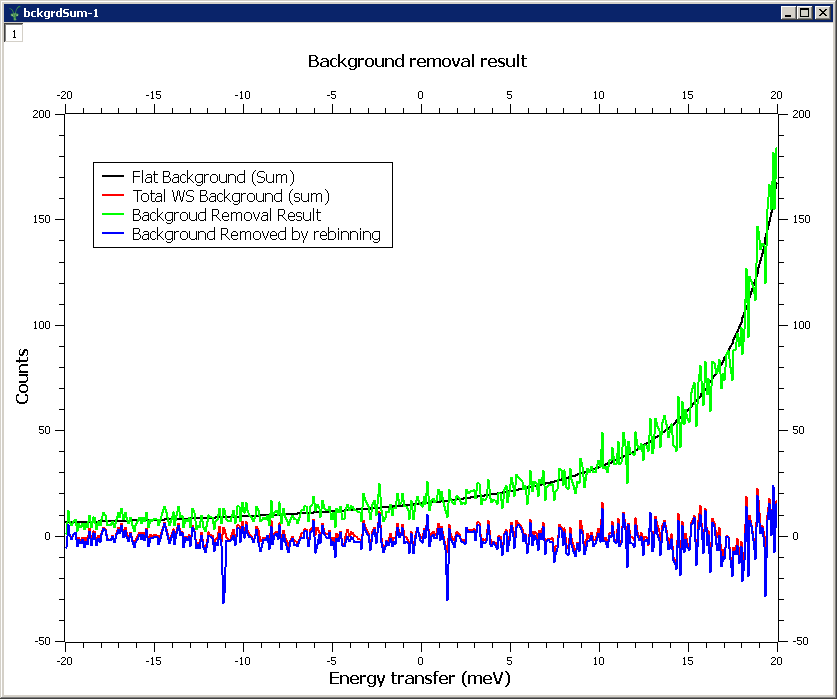
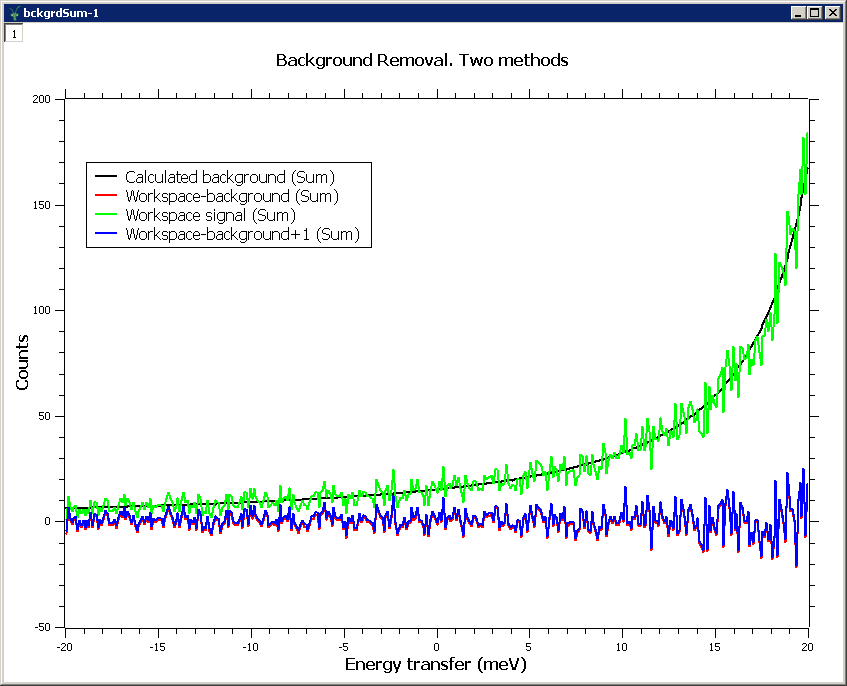
refs #10384 fixed multithreading mode

diff --git a/Code/Mantid/Framework/Algorithms/src/BackgroundHelper.cpp b/Code/Mantid/Framework/Algorithms/src/BackgroundHelper.cpp
@@ -68,6 +68,7 @@ namespace Mantid
     */
     void BackgroundHelper::removeBackground(int nHist,const MantidVec &XValues,MantidVec &y_data,MantidVec &e_data)const
     {
+
       double dtBg,ErrSq,IBg;
       if(m_singleValueBackground)
       {
@@ -92,12 +93,13 @@ namespace Mantid
         double twoTheta = m_wkWS->detectorTwoTheta(detector);
         double L2 = detector->getDistance(*m_Sample);
         double delta(std::numeric_limits<double>::quiet_NaN());
-        //
-        m_WSUnit->initialize(m_L1, L2,twoTheta, m_Emode, m_Efix,delta);
-        double tof1 = m_WSUnit->singleToTOF(XValues[0]);
+        // clone unit conversion to avoid multithreading issues
+        auto unitCong = m_WSUnit->clone();
+        unitCong->initialize(m_L1, L2,twoTheta, m_Emode, m_Efix,delta);
+        double tof1 = unitCong->singleToTOF(XValues[0]);
         for(size_t i=0;i<y_data.size();i++)
         {
-          double tof2=m_WSUnit->singleToTOF(XValues[i+1]);
+          double tof2=unitCong->singleToTOF(XValues[i+1]);
           double Jack = std::fabs((tof2-tof1)/dtBg);
           double normBkgrnd = IBg*Jack;
           tof1=tof2;

diff --git a/Code/Mantid/docs/source/algorithms/Rebin-v1.rst b/Code/Mantid/docs/source/algorithms/Rebin-v1.rst
@@ -83,7 +83,7 @@ Remove Background during rebinning options
 ##########################################
 
 These options allow you to remove flat background, defined by the a single bin 
-historgram workspace with X-axis in the units of TOF from a workspace in any 
+histogram workspace with X-axis in the units of TOF from a workspace in any 
 units with known conversion into TOF. The background removal occurs during rebinning
 
 These options are especially useful during reduction 
@@ -186,9 +186,52 @@ presented on the following picture:
 
 .. image:: /images/BgRemoval.png
 
-Blue line on this image represents the results, obatined using Rebin with background removal obtained using the following script::
+Blue line on this image represents the results, obtained using Rebin with background removal. The results produced using 
+the script below and shifted by one to show that there is another result plotted on the image, as both results 
+are identical::
+
+  from mantid.simpleapi import *
+  from mantid import config
+  import numpy as np
+  import sys
+  import os
+  
+  
+  maps_dir = '/home/user/InstrumentFiles/let/'
+  data_dir ='/home/user/results'   
+  ref_data_dir = '/home/user/SystemTests/AnalysisTests/ReferenceResults' 
+  config.setDataSearchDirs('{0};{1};{2}'.format(data_dir,maps_dir,ref_data_dir))
+  config['defaultsave.directory'] = data_dir # folder to save resulting spe/nxspe files. Defaults are in
+  
+  # the name of a workspace containing background
+  filename = 'LET0007438'
+  groupedFilename = filename+'rings';
+  #
+  Ei= 25
+  e_min = -20
+  e_max = 20
+  dE = 0.1
+  bgRange = [15000,18000]
 
 
+  if not(groupedFilename in mtd):
+    Load(Filename=filename+'.nxs', OutputWorkspace=filename, LoadMonitors=True)
+    GroupDetectors(InputWorkspace=filename, OutputWorkspace=groupedFilename , MapFile='LET_one2one_123.map', Behaviour='Average')
+   
+    
+  if not('Bg' in mtd):
+    Bg=Rebin(InputWorkspace=groupedFilename,  Params=[bgRange[0],bgRange[1]-bgRange[0],bgRange[1]],PreserveEvents=False)
+  else:
+    Bg = mtd['Bg']
+    
+  if  'resultEtransf' in mtd:
+    resultEtransf   = mtd['resultEtransf']
+  else:
+    resultEtransf   = ConvertUnits(groupedFilename,'DeltaE',Emode='Direct',EFixed=Ei)
+  
+    noBgWorkspace= Rebin(InputWorkspace=resultEtransf, Params=[e_min,dE,e_max],PreserveEvents=False,FlatBkgWorkspace='Bg',EMode='Direct')
+    nHist = Bg.getNumberHistograms()
+    removedBkgSum = SumSpectra(noBgWorkspace ,0,nHist);    
 
 .. _rebin-usage:
 
